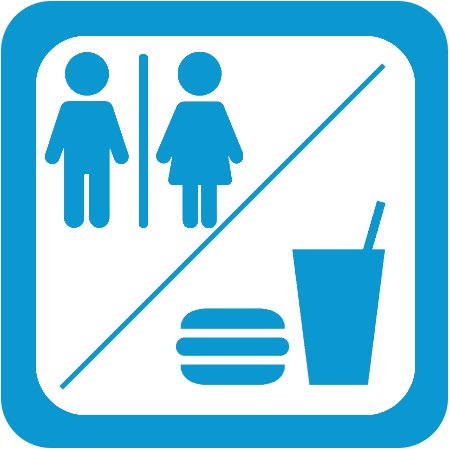
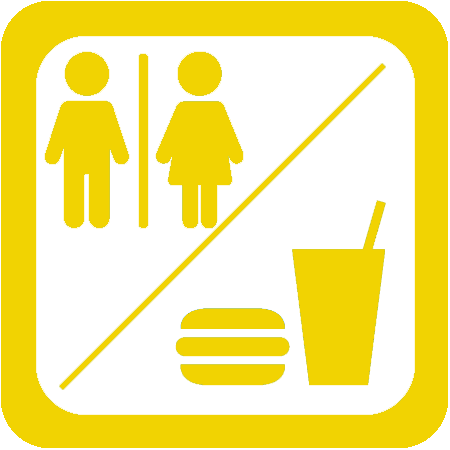
Navigation Bar Updates

diff --git a/index.html b/index.html
@@ -12,7 +12,7 @@ ul {
   list-style-type: none;
   margin: 0;
   padding: 0;
-  height: 100%;
+  height: 0;
   display: table;
   margin-left: auto;
   margin-right: auto;
@@ -29,31 +29,45 @@ li {
   float: left;
 }
 
+.headitems {
+	width:30px;
+	height:30px;
+	margin-left: 25px;
+	margin-right: 25px;
+	margin-bottom: -10px;
+	margin-top: -200px;
+}
+
 li a {
-  display: block;
-  color: white;
-  text-align: center;
-  padding: 14px 16px;
-  text-decoration: none;
+	display: block;
+	color: white;
+	text-align: center;
+	padding: 14px 16px;
+	text-decoration: none;
 }
 
 li a:hover {
-  background-color: #111;
+  background-color: #2c78e4;
+}
+
+.active {
+  background-color: #2c78e4;
 }
 img{
   width: auto;
-  height: 95vh;
+  height: 92vh;
 }
+
 </style>
 </head>
 
-<body style="background-color:#494949;">
+<body style="background-color:#205aad;">
 <div>
   <div class="header">
 	    <ul>
-			<li><a class="active" href="#home">Fields</a></li>
-  			<li><a href="#news">Parking</a></li>
-  			<li><a href="#contact">Restroom/Conssesion</a></li>
+			<li><a class="active" href="#home"><img src="FieldIcon.png" class="headitems"> </a></li>
+  			<li><a href="#news"><img src="ParkingYellow.png" class="headitems"></a></li>
+  			<li><a href="#contact"><img src="RestroomAndConcessionsYellow.png" class="headitems"></a></li>
 		</ul>
   </div>
 	
